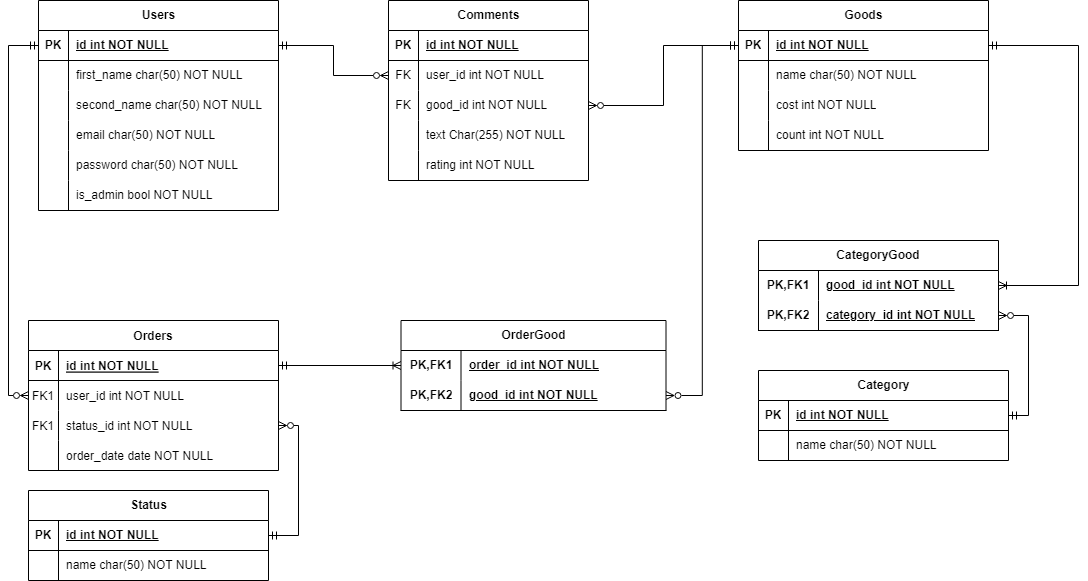
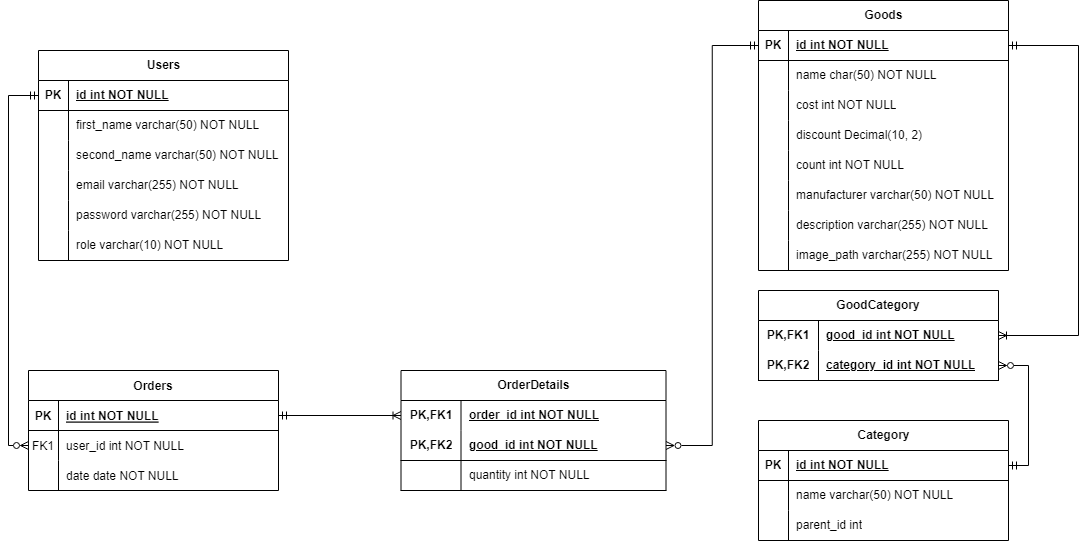
add more tests

diff --git a/backend/src/test/java/com/example/webstore/controller/OrderControllerTest.java b/backend/src/test/java/com/example/webstore/controller/OrderControllerTest.java
@@ -1,15 +1,41 @@
 package com.example.webstore.controller;
 
+import static org.mockito.Mockito.times;
+import static org.mockito.Mockito.verify;
+import static org.mockito.Mockito.when;
+import static org.springframework.test.web.servlet.request.MockMvcRequestBuilders.get;
+import static org.springframework.test.web.servlet.request.MockMvcRequestBuilders.post;
+import static org.springframework.test.web.servlet.result.MockMvcResultMatchers.status;
+import static org.springframework.test.web.servlet.result.MockMvcResultMatchers.jsonPath;
+import static org.springframework.test.web.servlet.result.MockMvcResultHandlers.print;
+
+import java.sql.Date;
+import java.util.Arrays;
+import java.util.List;
+import java.util.Optional;
+import java.util.Set;
+
 import org.junit.jupiter.api.BeforeEach;
 import org.junit.jupiter.api.Test;
 import org.junit.jupiter.api.extension.ExtendWith;
 import org.mockito.InjectMocks;
 import org.mockito.Mock;
+import org.mockito.Mockito;
 import org.mockito.junit.jupiter.MockitoExtension;
+import org.springframework.http.HttpStatus;
+import org.springframework.http.MediaType;
+import org.springframework.http.ResponseEntity;
 import org.springframework.test.web.servlet.MockMvc;
 import org.springframework.test.web.servlet.setup.MockMvcBuilders;
 
+import com.example.webstore.model.Good;
+import com.example.webstore.model.Order;
+import com.example.webstore.model.OrderDetail;
+import com.example.webstore.model.Role;
+import com.example.webstore.model.User;
 import com.example.webstore.service.OrderServiceImpl;
+import com.example.webstore.web.GoodQuantity;
+import com.fasterxml.jackson.databind.ObjectMapper;
 
 @ExtendWith(MockitoExtension.class)
 class OrderControllerTest {
@@ -18,16 +44,76 @@ class OrderControllerTest {
     @Mock
     private OrderServiceImpl orderService;
 
+    private ObjectMapper objectMapper;
+
     private MockMvc mockMvc;
 
     @BeforeEach
     void initSecurityContext() {
         this.mockMvc = MockMvcBuilders.standaloneSetup(orderController).build();
+        objectMapper = new ObjectMapper();
     }
 
     @Test
-    void orderCreateTest() {
-        
+    void getAllOrdersTest() throws Exception{
+        User user = new User("user", "user", "test.test@test.test", "12345", Role.USER);
+        Order order = new Order(user, new Date(System.currentTimeMillis()));
+        Good good1 = new Good("test1", 1000, 0, 22, "test", "test", "test");
+        Set<OrderDetail> orderDetails = order.getOrderDetails();
+        orderDetails.add(new OrderDetail(order, good1, 1));
+        order.setOrderDetails(orderDetails);
+        List<Order> orders = Arrays.asList(order);
+        when(orderService.readAll()).thenReturn(orders);
+        mockMvc.perform(get("/api/orders"))
+        .andDo(print())
+        .andExpect(status().isOk())
+        .andExpect(jsonPath("$").exists());
+        verify(orderService, times(1)).readAll();
+    }
+
+    @Test
+    void getOrderByIdTest() throws Exception{
+        User user = new User("user", "user", "test.test@test.test", "12345", Role.USER);
+        Order order = new Order(user, new Date(System.currentTimeMillis()));
+        Good good1 = new Good("test1", 1000, 0, 22, "test", "test", "test");
+        Set<OrderDetail> orderDetails = order.getOrderDetails();
+        orderDetails.add(new OrderDetail(order, good1, 1));
+        order.setOrderDetails(orderDetails);
+        when(orderService.findById(1)).thenReturn(Optional.of(order));
+        mockMvc.perform(get("/api/orders/{id}", 1))
+        .andExpect(status().isOk())
+        .andExpect(jsonPath("$.user.username").value(user.getUsername()))
+        .andExpect(jsonPath("$.date").exists())
+        .andExpect(jsonPath("$.orderDetails").exists());
+        verify(orderService, times(1)).findById(Mockito.anyInt());
+    }
+
+    @Test
+    void orderCreateTest() throws Exception {
+        GoodQuantity goodQuantity1 = new GoodQuantity(1, 1);
+        GoodQuantity goodQuantity2 = new GoodQuantity(2, 2);
+        GoodQuantity goodQuantity3 = new GoodQuantity(3, 3);
+        Good good1 = new Good("test1", 1000, 0, 22, "test", "test", "test");
+        Good good2 = new Good("test2", 1000, 0, 10, "test", "test", "test");
+        Good good3 = new Good("test3", 1000, 0, 4, "test", "test", "test");
+        List<GoodQuantity> goodQuantities = Arrays.asList(goodQuantity1, goodQuantity2, goodQuantity3);
+        String goodsJson = objectMapper.writeValueAsString(goodQuantities);
+
+        User user = new User("user", "user", "test.test@test.test", "12345", Role.USER);
+        Order order = new Order(user, new Date(System.currentTimeMillis()));
+        Set<OrderDetail> orderDetails = order.getOrderDetails();
+        orderDetails.add(new OrderDetail(order, good1, 1));
+        orderDetails.add(new OrderDetail(order, good2, 2));
+        orderDetails.add(new OrderDetail(order, good3, 3));
+        order.setOrderDetails(orderDetails);
+        when(orderService.create(goodQuantities)).thenReturn(new ResponseEntity<Order>(order, HttpStatus.OK));
+        mockMvc.perform(post("/api/order-create")
+        .contentType(MediaType.APPLICATION_JSON)
+        .content(goodsJson))
+        .andExpect(status().isOk())
+        .andExpect(jsonPath("$.user.username").value(user.getUsername()))
+        .andExpect(jsonPath("$.date").exists())
+        .andExpect(jsonPath("$.orderDetails").exists());
     }
     
 }

diff --git a/backend/src/test/java/com/example/webstore/controller/GoodControllerTest.java b/backend/src/test/java/com/example/webstore/controller/GoodControllerTest.java
@@ -1,0 +1,72 @@
+package com.example.webstore.controller;
+
+import static org.mockito.Mockito.times;
+import static org.mockito.Mockito.verify;
+import static org.mockito.Mockito.when;
+
+import java.util.Arrays;
+import java.util.HashSet;
+import java.util.List;
+import java.util.Optional;
+import java.util.Set;
+
+import org.junit.jupiter.api.BeforeEach;
+import org.junit.jupiter.api.Test;
+import org.junit.jupiter.api.extension.ExtendWith;
+import org.mockito.InjectMocks;
+import org.mockito.Mock;
+import org.mockito.Mockito;
+import org.mockito.junit.jupiter.MockitoExtension;
+import org.springframework.test.web.servlet.MockMvc;
+import org.springframework.test.web.servlet.setup.MockMvcBuilders;
+import static org.springframework.test.web.servlet.request.MockMvcRequestBuilders.get;
+import static org.springframework.test.web.servlet.result.MockMvcResultMatchers.jsonPath;
+import static org.springframework.test.web.servlet.result.MockMvcResultMatchers.status;
+
+import com.example.webstore.model.Category;
+import com.example.webstore.model.Good;
+import com.example.webstore.service.CategoryServiceImpl;
+import com.example.webstore.service.GoodServiceImpl;
+
+@ExtendWith(MockitoExtension.class)
+class GoodControllerTest {
+    @InjectMocks
+    private GoodController goodController;
+    @Mock
+    private GoodServiceImpl goodService;
+    @Mock 
+    private CategoryServiceImpl categoryService;
+
+    private MockMvc mockMvc;
+
+    @BeforeEach
+    void initSecurityContext() {
+        this.mockMvc = MockMvcBuilders.standaloneSetup(goodController).build();
+    }
+
+    @Test
+    void getAllGoodsTest() throws Exception{
+        Good good1 = new Good("test1", 1000, 0, 22, "test", "test", "test");
+        Good good2 = new Good("test2", 1000, 0, 10, "test", "test", "test");
+        Good good3 = new Good("test3", 1000, 0, 4, "test", "test", "test");
+        List<Good> goods = Arrays.asList(good1, good2, good3);
+        Category category1 = new Category("category1");
+        when(categoryService.findById(1)).thenReturn(Optional.of(category1));
+        when(goodService.readByCategoryOrderByCostDesc(Mockito.anySet())).thenReturn(goods);
+        mockMvc.perform(get("/api/goods").param("category", "1").param("sort", "descending"))
+        .andExpect(status().isOk())
+        .andExpect(jsonPath("$").exists());
+        verify(categoryService, times(1)).findById(Mockito.anyInt());
+        verify(goodService, times(1)).readByCategoryOrderByCostDesc(Mockito.anySet());
+    }
+
+    @Test
+    void getGoodByIdTest() throws Exception{
+        Good good1 = new Good("test1", 1000, 0, 22, "test", "test", "test");
+        when(goodService.findById(1)).thenReturn(Optional.of(good1));
+        mockMvc.perform(get("/api/goods/{id}", 1))
+        .andExpect(status().isOk())
+        .andExpect(jsonPath("$.name").value(good1.getName()));
+        verify(goodService, times(1)).findById(Mockito.anyInt());
+    }
+}

diff --git a/backend/src/test/java/com/example/webstore/controller/CategoryControllerTest.java b/backend/src/test/java/com/example/webstore/controller/CategoryControllerTest.java
@@ -25,7 +25,7 @@ import com.example.webstore.model.Category;
 import com.example.webstore.service.CategoryServiceImpl;
 
 @ExtendWith(MockitoExtension.class)
-class CategoryControlletTest {
+class CategoryControllerTest {
     @InjectMocks
     private CategoryController categoryController;
     @Mock
@@ -45,19 +45,20 @@ class CategoryControlletTest {
         Category category3 = new Category("category3");
         List<Category> categories = Arrays.asList(category1, category2, category3);
         when(categoryService.readAll()).thenReturn(categories);
+        
         mockMvc.perform(get("/api/categories"))
         .andExpect(status().isOk())
-        .andExpect(jsonPath("$").value(categories));
+        .andExpect(jsonPath("$").exists());
         verify(categoryService, times(1)).readAll();
     }
 
     @Test
     void getCategoryByIdTest() throws Exception{
         Category category1 = new Category("category1");
-        when(categoryService.findById(1)).thenReturn(Optional.empty());
+        when(categoryService.findById(Mockito.anyInt())).thenReturn(Optional.of(category1));
         mockMvc.perform(get("/api/categories/{id}", 1))
         .andExpect(status().isOk())
-        .andExpect(jsonPath("$").value(category1));
+        .andExpect(jsonPath("$.name").value(category1.getName()));
         verify(categoryService, times(1)).findById(Mockito.anyInt());
     }
 }

diff --git a/backend/src/test/java/com/example/webstore/WebstoreApplicationTests.java b/backend/src/test/java/com/example/webstore/WebstoreApplicationTests.java
@@ -6,8 +6,4 @@ import org.springframework.boot.test.context.SpringBootTest;
 @SpringBootTest
 class WebstoreApplicationTests {
 
-	@Test
-	void contextLoads() {
-	}
-
 }
